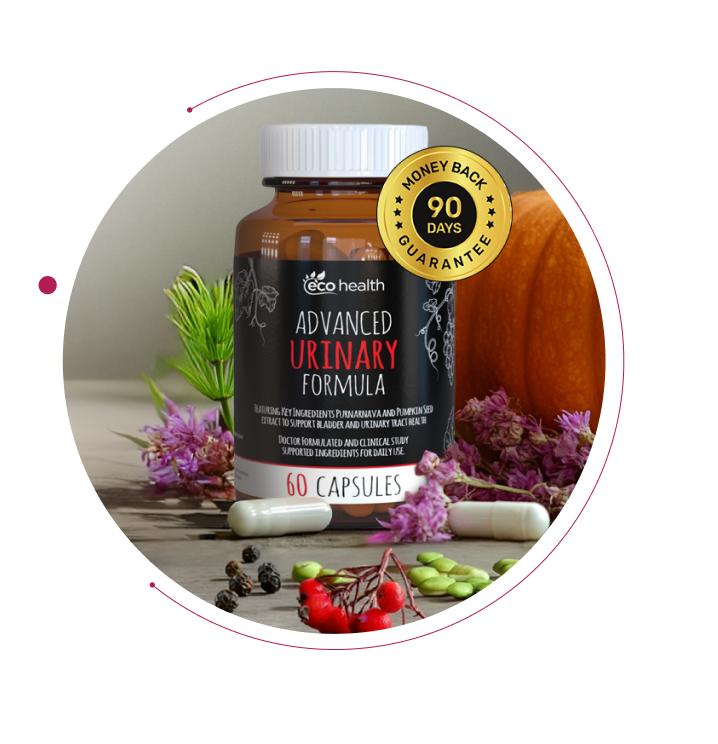
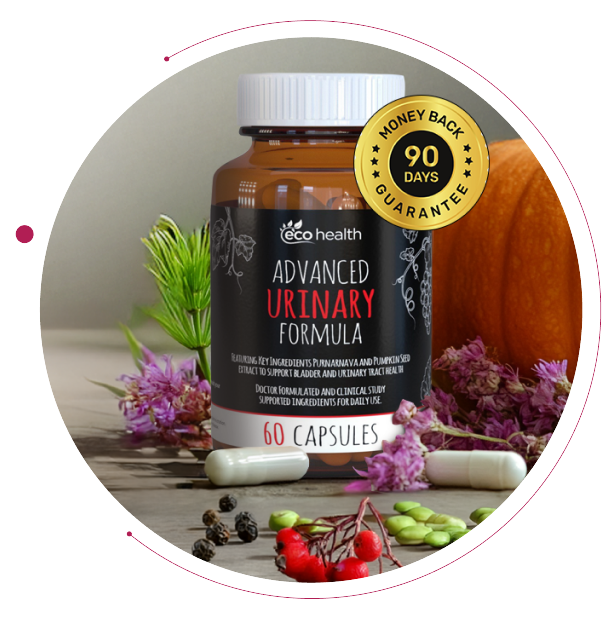
updated successfully

diff --git a/src/components/the-solution.tsx b/src/components/the-solution.tsx
@@ -3,33 +3,35 @@ import { config } from "../config";
 
 export function TheSolution() {
   return (
-    <section className="p-fit mx-auto  max-w-[90%] sm:max-w-[80%] md:max-w-[70%] lg:max-w-7xl ">
-      <h3 className="title text-[#1f8e2a]">The Solution</h3>
-      <p className="mx-auto max-w-[65ch] text-pretty px-2 pb-6 text-center font-semibold leading-relaxed md:text-lg">
-        Bye, Buy Bladder Leaks, accidents, discomfort and worries with Eco
-        Health's Advanced Urinary Formula. Doctor Formulated with clincaly
-        studied ingredients. Guaranteed to Work!
-      </p>
-      <div className="grid gap-6 md:gap-8 lg:grid-cols-2 lg:items-center">
-        <img
-          className="mx-auto rounded-lg lg:h-[84%] lg:w-[95%]"
-          src="/images/solution.png"
-          alt="solution section image"
-        />
-        <ul className="space-y-4 text-start md:space-y-6">
-          {config.solutions.map((solution) => (
-            <li
-              key={solution}
-              className="flex items-start gap-x-2 text-pretty leading-relaxed"
-            >
-              <span>
-                <IoIosCheckmarkCircle className="size-9 text-[#1f8e2a]" />
-              </span>
-              <p className="text-xl md:text-2xl">{solution}</p>
-            </li>
-          ))}
-        </ul>
-      </div>
-    </section>
+    
+      <section className="p-fit mx-auto max-w-[100%] sm:max-w-[80%] md:max-w-[70%] lg:max-w-7xl">
+        <h3 className="title text-[#4BAE4F]">The Solution</h3>
+        <p className="mx-auto max-w-[65ch] text-pretty px-2 pb-6 text-center font-semibold leading-relaxed md:text-lg">
+          Bye, Buy Bladder Leaks, accidents, discomfort and worries with Eco
+          Health's Advanced Urinary Formula. Doctor Formulated with clincaly
+          studied ingredients. Guaranteed to Work!
+        </p>
+        <div className="grid gap-6 md:gap-8 lg:grid-cols-2 lg:items-center">
+          <img
+            className="mx-auto rounded-lg lg:h-[84%] lg:w-[95%]"
+            src="/images/solution.png"
+            alt="solution section image"
+          />
+          <ul className="space-y-4 text-start md:space-y-6">
+            {config.solutions.map((solution) => (
+              <li
+                key={solution}
+                className="flex items-start gap-x-2 text-pretty leading-relaxed"
+              >
+                <span>
+                  <IoIosCheckmarkCircle className="size-9 text-[#4BAE4F]" />
+                </span>
+                <p className="text-xl md:text-2xl">{solution}</p>
+              </li>
+            ))}
+          </ul>
+        </div>
+      </section>
+   
   );
 }

diff --git a/src/components/banner.tsx b/src/components/banner.tsx
@@ -1,13 +1,14 @@
-import { IoIosCheckmarkCircle, IoMdStar } from "react-icons/io";
+import {  IoMdStar } from "react-icons/io";
 import { config } from "../config";
 import { AddToCartButton } from "./add-to-cart-button";
 import { CartBadge } from "./cart-badge";
 import { OffersBadge } from "./offers-badge";
 import { SalesBadge } from "./sales-badge";
+import { GiCheckMark } from "react-icons/gi";
 
 export function Banner() {
   return (
-    <section className=" full-width grid-containerxl  bg-gradient-to-r from-[#FAF3E1] to-yellow-200/40">
+    <section className=" full-width grid-containerxl  bg-[#FAF3E1]">
       <div className="lg:gird-cols-2 relative grid items-center justify-center justify-items-center gap-y-0 py-14 pt-10 text-center md:gap-x-10 md:gap-y-5 md:text-start lg:grid-cols-[75%_1fr] lg:justify-items-start">
         <div className="mb-6 md:my-0 flex flex-wrap items-center justify-center gap-x-3 rounded-full border bg-white px-4 py-2 text-sm font-bold shadow-lg md:py-1 md:text-base">
           <span className="flex items-center ">
@@ -21,7 +22,7 @@ export function Banner() {
           <span>4.7/5 stars</span>
           <span>859 verified reviews</span>
         </div>
-        <p className="max-w-[90%] md:max-w-[70%] text-wrap text-[1.8rem] font-black  text-[#8e2253] md:col-start-1 lg:text-[44px] lg:leading-[1.25] text-center lg:text-start">
+        <p className="max-w-[92%] md:max-w-[70%] text-wrap text-[1.6rem] md:text-[34px] font-black  text-[#8e2253] md:col-start-1 lg:text-[44px] lg:leading-[1.25] text-center lg:text-start">
           BLADDER-BUILDING Super Nutrient
           <span className="text-neutral-dark"> for </span> LEAK FREE days
           <span className="text-neutral-dark"> and </span>
@@ -36,7 +37,8 @@ export function Banner() {
           {config.bannerOfferings.map((offering, index) => (
             <li className="flex items-start gap-x-2" key={`offering${index}`}>
               <div>
-                <IoIosCheckmarkCircle className="size-7 text-[#1f8e2a]" />
+                <GiCheckMark  
+                className="size-6 p-1  bg-[#04C515] border-red-300   rounded-[4px] text-white " />
               </div>
               <span>{offering}</span>
             </li>
@@ -69,3 +71,5 @@ export function Banner() {
     </section>
   );
 }
+
+

diff --git a/src/components/LandingProducts.tsx b/src/components/LandingProducts.tsx
@@ -3,7 +3,7 @@ const LandingSection = () => {
     {
       id: 1,
       name: "Pumpkin Seed Extract",
-      image: "/images/1.png",
+      image: "/images/1.jpg",
       benefits: [
         "Strengthens pelvic floor muscles for better bladder control",
         "Increases urinary frequency and urgency by up to 40%",
@@ -13,7 +13,7 @@ const LandingSection = () => {
     {
       id: 2,
       name: "Horsetail Extract",
-      image: "/images/2.png",
+      image: "/images/2.jpg",
       benefits: [
         "Enhances connective tissue integrity with silica",
         "Improves urinary flow and bladder function by 15%",
@@ -23,7 +23,7 @@ const LandingSection = () => {
     {
       id: 3,
       name: "Punarnava Extract",
-      image: "/images/3.png",
+      image: "/images/3.jpg",
       benefits: [
         "Supports kidney health and reduces fluid retention",
         "Promotes healthy urination patterns",
@@ -33,7 +33,7 @@ const LandingSection = () => {
     {
       id: 4,
       name: "Soy Germ Extract",
-      image: "/images/4.png",
+      image: "/images/4.jpg",
       benefits: [
         "Isoflavones improve bladder strength and hormonal balance",
         "Reduces urinary issues in post-menopausal women",
@@ -43,7 +43,7 @@ const LandingSection = () => {
     {
       id: 5,
       name: "Veld Grape Extract",
-      image: "/images/5.png",
+      image: "/images/5.jpeg",
       benefits: [
         "Strengthens connective tissues for bladder health",
         "Reduces inflammation and irritation",
@@ -53,7 +53,7 @@ const LandingSection = () => {
     {
       id: 6,
       name: "Piperine",
-      image: "/images/6.png",
+      image: "/images/6.jpg",
       benefits: [
         "Boosts urinary health by reducing fluid retention",
         "Anti-inflammatory benefits for healthy urination",

diff --git a/src/components/the-problem.tsx b/src/components/the-problem.tsx
@@ -3,25 +3,26 @@ import { config } from "../config";
 
 export function TheProblem() {
   return (
-    <section className="p-fit mx-auto secGap  max-w-[90%] sm:max-w-[80%] md:max-w-[70%] lg:max-w-7xl ">
+
+<section className="p-fit mx-auto secGap  max-w-[100%] sm:max-w-[80%] md:max-w-[70%] lg:max-w-7xl  ">
       <h2 className="title text-brand-maroon">BYE BYE BLADDER </h2>
       <p className="mx-auto max-w-[65ch] text-pretty px-2 pb-6 lg:pb-0 text-center font-semibold leading-relaxed md:text-lg">
       Accidents - Discomfort - Leaks - Embarrassment
 
       </p>
       <div className="grid gap-6 mt-2 md:mt-12 lg:gap-8 lg:grid-cols-2 lg:items-center justify-center items-center">
-      <div className="grid grid-cols-1 md:grid-cols-2">
-      <img
+      {/* <div className="grid grid-cols-1 md:grid-cols-2"> */}
+      {/* <img
           className="rounded-lg w-[70%] md:w-[82%] border md:h-[95%] mx-auto"
           src="/images/girl.png"
           alt="problem section image"
-        />
+        /> */}
         <img
           className="rounded-lg w-full md:w-[100%] h-full md:h-[95%] mx-auto"
-          src="/images/problem.png"
+          src="/images/problempic.png"
           alt="problem section image"
         />
-        </div>
+        {/* </div> */}
         <ul className="space-y-4 text-start md:space-y-6 ">
           {config.problems.map((problem) => (
             <li
@@ -37,5 +38,6 @@ export function TheProblem() {
         </ul>
       </div>
     </section>
+
   );
 }

diff --git a/src/app.tsx b/src/app.tsx
@@ -1,5 +1,5 @@
 import { Banner } from "./components/banner";
-// import CallToAction from "./components/CallTo-Action";
+import CallToAction from "./components/CallTo-Action";
 import { CustomerReviews } from "./components/customer-reviews";
 import EcoHelth from "./components/Eco-helth";
 import { Faq } from "./components/faq";
@@ -20,19 +20,21 @@ export function App() {
     <div>
       <Header />
       <Banner />
-      <TheProblem />
-      <TheSolution />
-      {/* <CallToAction /> */}
+      <div className="bg-gradient-to-b from-white to-[#FAF3E1]">
+        <TheProblem />
+        <TheSolution />
+      </div>
+      <CallToAction />
       <WhyUrinaryFormula />
       <EcoHelth />
       <WhyItWorks />
       <LandingSection />
-      <Satisfaction/>
+      <Satisfaction />
       <Packages />
       <SellingFast />
       <Faq />
-      <CustomerReviews/>
-      <HaveAquestion/>
+      <CustomerReviews />
+      <HaveAquestion />
       <Footer />
     </div>
   );

diff --git a/src/components/satisfaction.tsx b/src/components/satisfaction.tsx
@@ -4,10 +4,11 @@ import { SalesBadge } from "./sales-badge";
 
 export function Satisfaction() {
   return (
-    <div className="bg-brand-beige">
-      <section className="mx-auto my-0 grid max-w-7xl place-items-center justify-items-center p-5 lg:grid-cols-2 lg:gap-12 lg:p-8 xl:p-0">
+    <div className="bg-[ #FAF3E1
+] ">
+      <section className="mx-auto my-0 grid max-w-7xl place-items-center justify-items-center p-5 lg:grid-cols-2 lg:gap-12 lg:p-8 xl:p-5">
         {/* Image Section */}
-        <div className="relative mx-auto flex aspect-square max-w-[400px] items-center justify-center order-first md:order-first lg:order-last md:max-w-[500px] lg:max-w-[600px]">
+        <div className="relative mx-auto flex aspect-square max-w-[370px] items-center justify-center order-first md:order-first lg:order-last md:max-w-[500px] lg:max-w-[600px]">
           <img
             className="h-full w-full rounded-full object-cover "
             src="/images/hero-3.png"

diff --git a/src/components/footer.tsx b/src/components/footer.tsx
@@ -37,7 +37,7 @@ export function Footer() {
           </div>
         </div>
         <p className="max-w-[65ch] leading-relaxed opacity-60">
-          *These statements have not been evaluated by the Food and Drug Administration. This product is not intended to diagnose, treat, cure, or prevent any disease. © 2024 Eco Health. All Rights Reserved. Caution: If you are pregnant, nursing, or taking medications, consult your physician before use. Keep out of reach of children
+          *These statements have not been evaluated by the Food and Drug Administration. This product is not intended to diagnose, treat, cure, or prevent any disease. Caution: If you are pregnant, nursing, or taking medications, consult your physician before use. Keep out of reach of children
         </p>
         <span className="opacity-60">
           © {new Date().getFullYear()} ECO HEALTH. All Rights Reserved

diff --git a/src/components/header.tsx b/src/components/header.tsx
@@ -102,11 +102,11 @@ export function Header() {
 
               <a
                 href="#"
-                className="flex items-center justify-center text-xl font-bold md:hidden"
+                className="flex items-center gap-2 justify-center text-xl font-bold md:hidden"
               >
                 <img
-                  className="h-16 w-auto"
-                  src="/images/img-banner.webp"
+                  className="h-[52px] w-auto"
+                  src="/images/hero-2.png"
                   alt="SNAP"
                 />
                 <div className="text-sm font-semibold">

diff --git a/src/components/why-urinary-formula.tsx b/src/components/why-urinary-formula.tsx
@@ -2,7 +2,7 @@ import { config } from "../config";
 
 export function WhyUrinaryFormula() {
   return (
-    <section className="relative overflow-hidden bg-[#FAF3E1] py-8 md:py-16">
+    <section className="relative overflow-hidden bg-[#FAF3E1] py-4 md:py-8">
       <h3 className="text-maroon title">Why Advanced Urinary Formula?</h3>
       <p className="text-semibold text-balance pb-4 text-center text-2xl text-black md:text-[34px]">
         Harness the Power of Advanced
